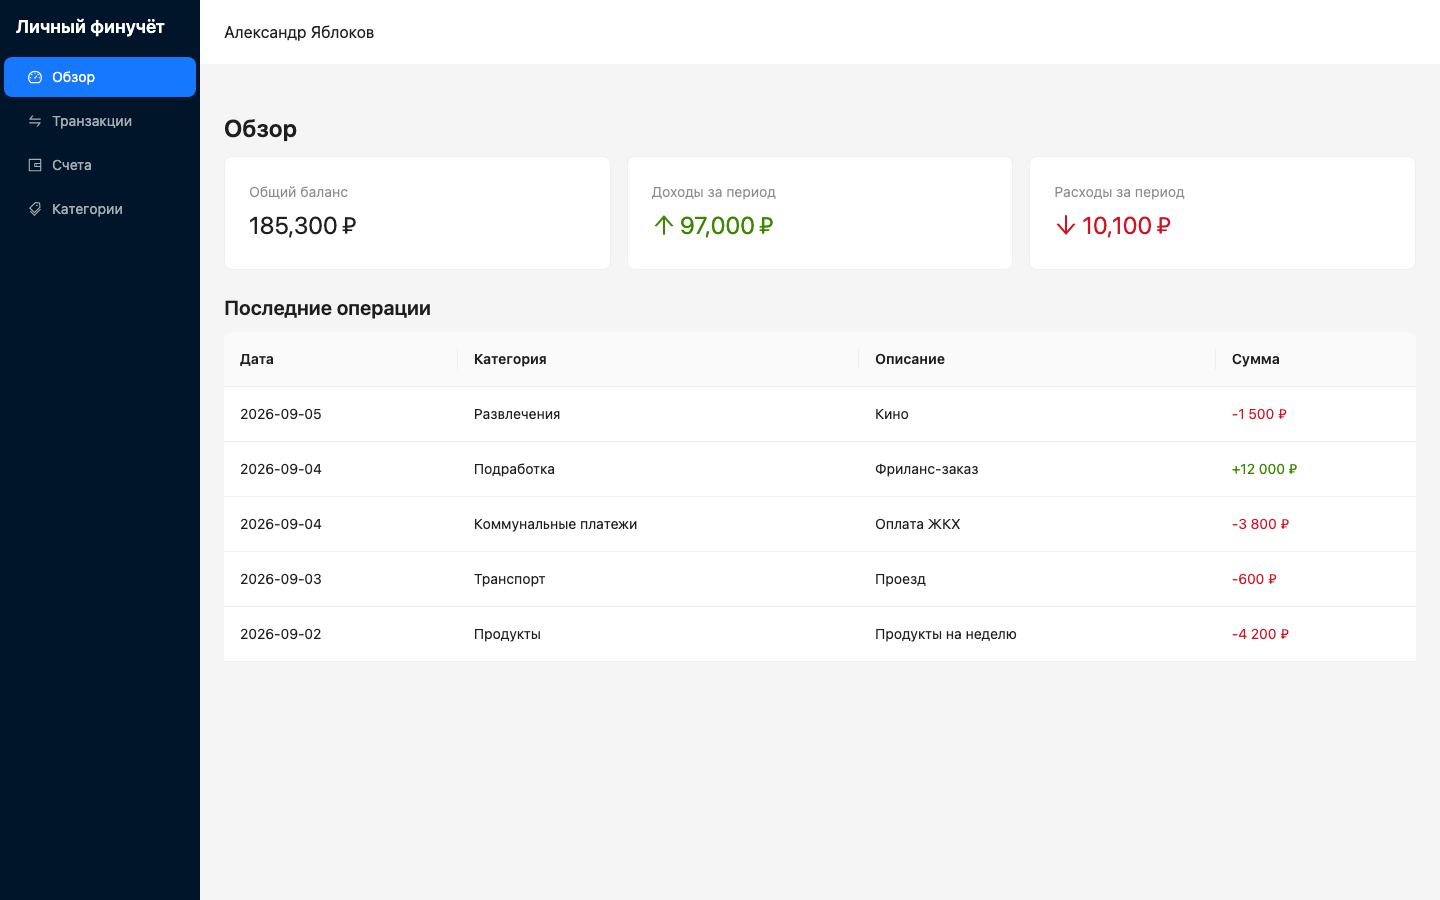
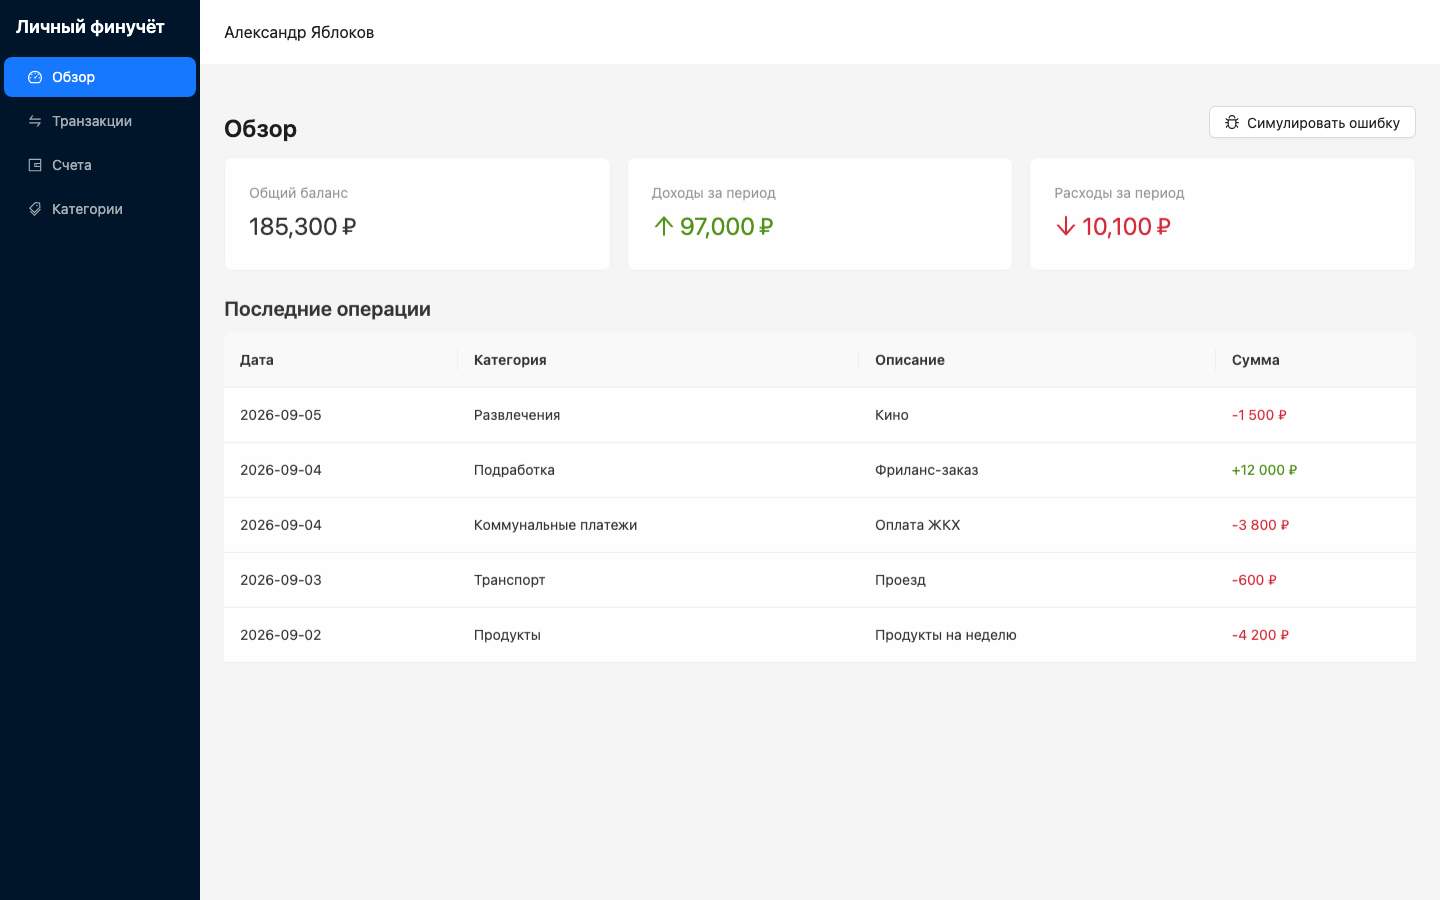
docs: describe FSD-lite structure and dynamic states, refresh screenshots

diff --git a/README.md b/README.md
@@ -16,7 +16,7 @@
 3. **Счета** (`/accounts`) — карточки счетов с балансом, форма добавления счёта.
 4. **Категории** (`/categories`) — таблица категорий с типом (доход/расход), форма добавления категории.
 
-Скриншоты экранов: [docs/screenshots](docs/screenshots).
+Скриншоты экранов: [docs/screenshots](docs/screenshots). Там же — отдельные скриншоты состояний загрузки, ошибки и отсутствия данных (`dashboard-loading.png`, `dashboard-error.png`, `transactions-empty.png`) и клиентской валидации формы (`transactions-form-validation.png`).
 
 ## Стек
 
@@ -25,7 +25,33 @@
 
 ## Frontend
 
-Каркас интерфейса на React + TypeScript + Ant Design. На этом этапе данные демонстрационные (см. `frontend/src/mocks`), без подключения к API.
+Интерфейс на React + TypeScript + Ant Design. Данные пока демонстрационные (см. `entities/*`), без подключения к API — оно появится в лабе 5. Загрузка данных на экранах имитирует реальный запрос: есть задержка, состояние загрузки, ошибки и отсутствия данных.
+
+### Структура frontend (упрощённый Feature-Sliced Design)
+
+```
+frontend/src/
+  app/            — сборка приложения: App.tsx с роутингом
+  pages/          — экраны (Dashboard, Transactions, Accounts, Categories):
+                    забирают данные и компонуют features/entities/shared
+  features/       — пользовательские действия: создание счёта/категории/операции
+                    (форма + валидация + вызов колбэка), каждая — со своей папкой
+  entities/       — сущности предметной области: типы, демо-данные,
+                    имитация запроса к API (account, category, transaction)
+  shared/         — переиспользуемое и не привязанное к предметной области:
+                    ui/AppLayout, ui/AsyncState, ui/FadeIn, lib/useAsyncResource,
+                    lib/format, lib/mockDelay
+```
+
+Полное соблюдение FSD не требуется по заданию, поэтому слой `widgets` не выделялся отдельно — общий layout приложения лежит в `shared/ui/AppLayout`, так как переиспользуется на каждой странице.
+
+### Динамическое поведение экранов
+
+- **Загрузка** — каждый экран со списком (Обзор, Транзакции, Счета, Категории) получает данные через хук `useAsyncResource`, который оборачивает демо-данные в `Promise` с искусственной задержкой (`shared/lib/mockDelay`) и пока идёт запрос показывает `Skeleton`.
+- **Ошибка** — на каждом экране есть кнопка «Симулировать ошибку» для демонстрации отказа загрузки (кнопка временная, для лабы 3; в лабе 5 ошибку будет возвращать реальный API). Показывается `Alert` с кнопкой «Повторить».
+- **Отсутствие данных** — если список пуст (например, на «Транзакциях» выбран фильтр по категории без операций), показывается `Empty` с понятным текстом вместо пустой таблицы.
+- **Валидация форм** — формы создания счёта/категории/операции (`features/create-*`) используют `antd Form` с явными правилами (обязательность, минимальная длина, сумма больше нуля) и показывают ошибку под конкретным полем сразу при попытке отправки.
+- **Анимация** — появление содержимого экрана после загрузки и открытие модалок сопровождается плавным fade-in (`shared/ui/FadeIn`, CSS-анимация без сторонних библиотек).
 
 ### Запуск frontend
 
